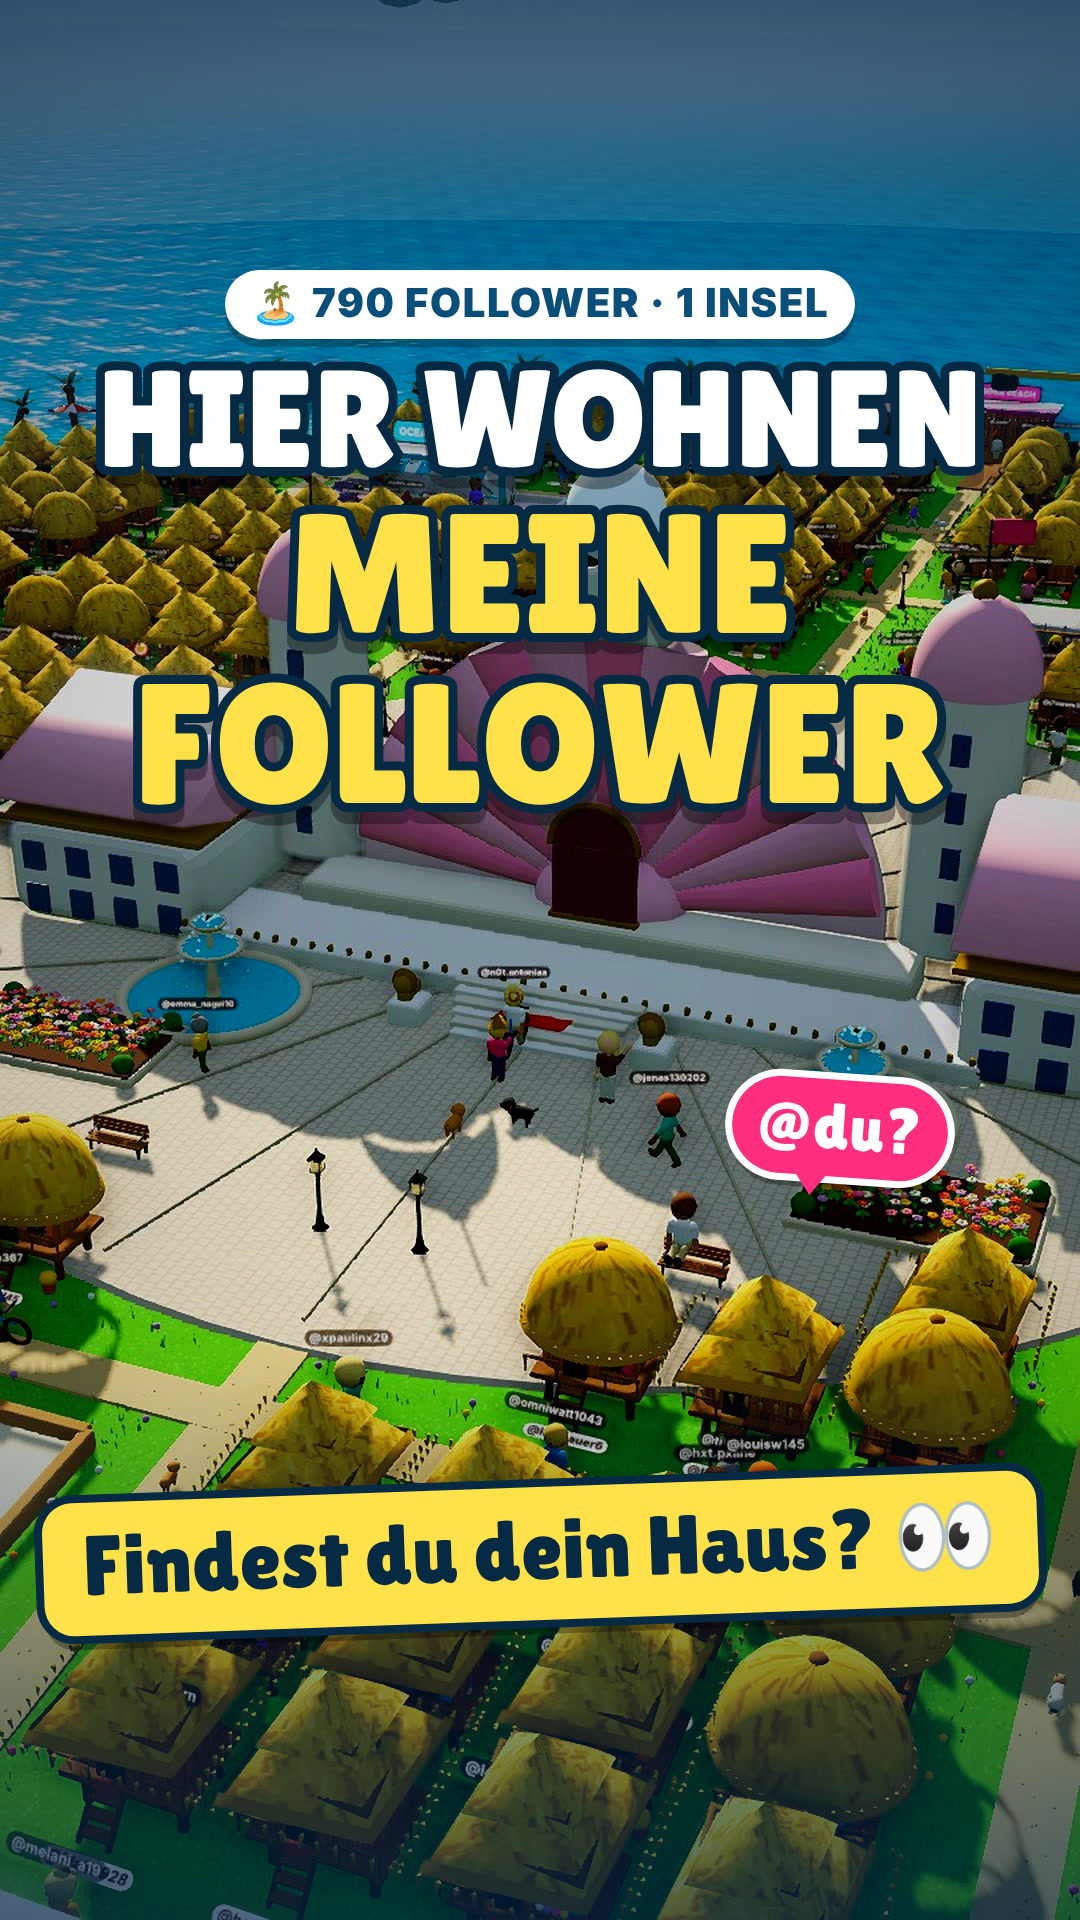
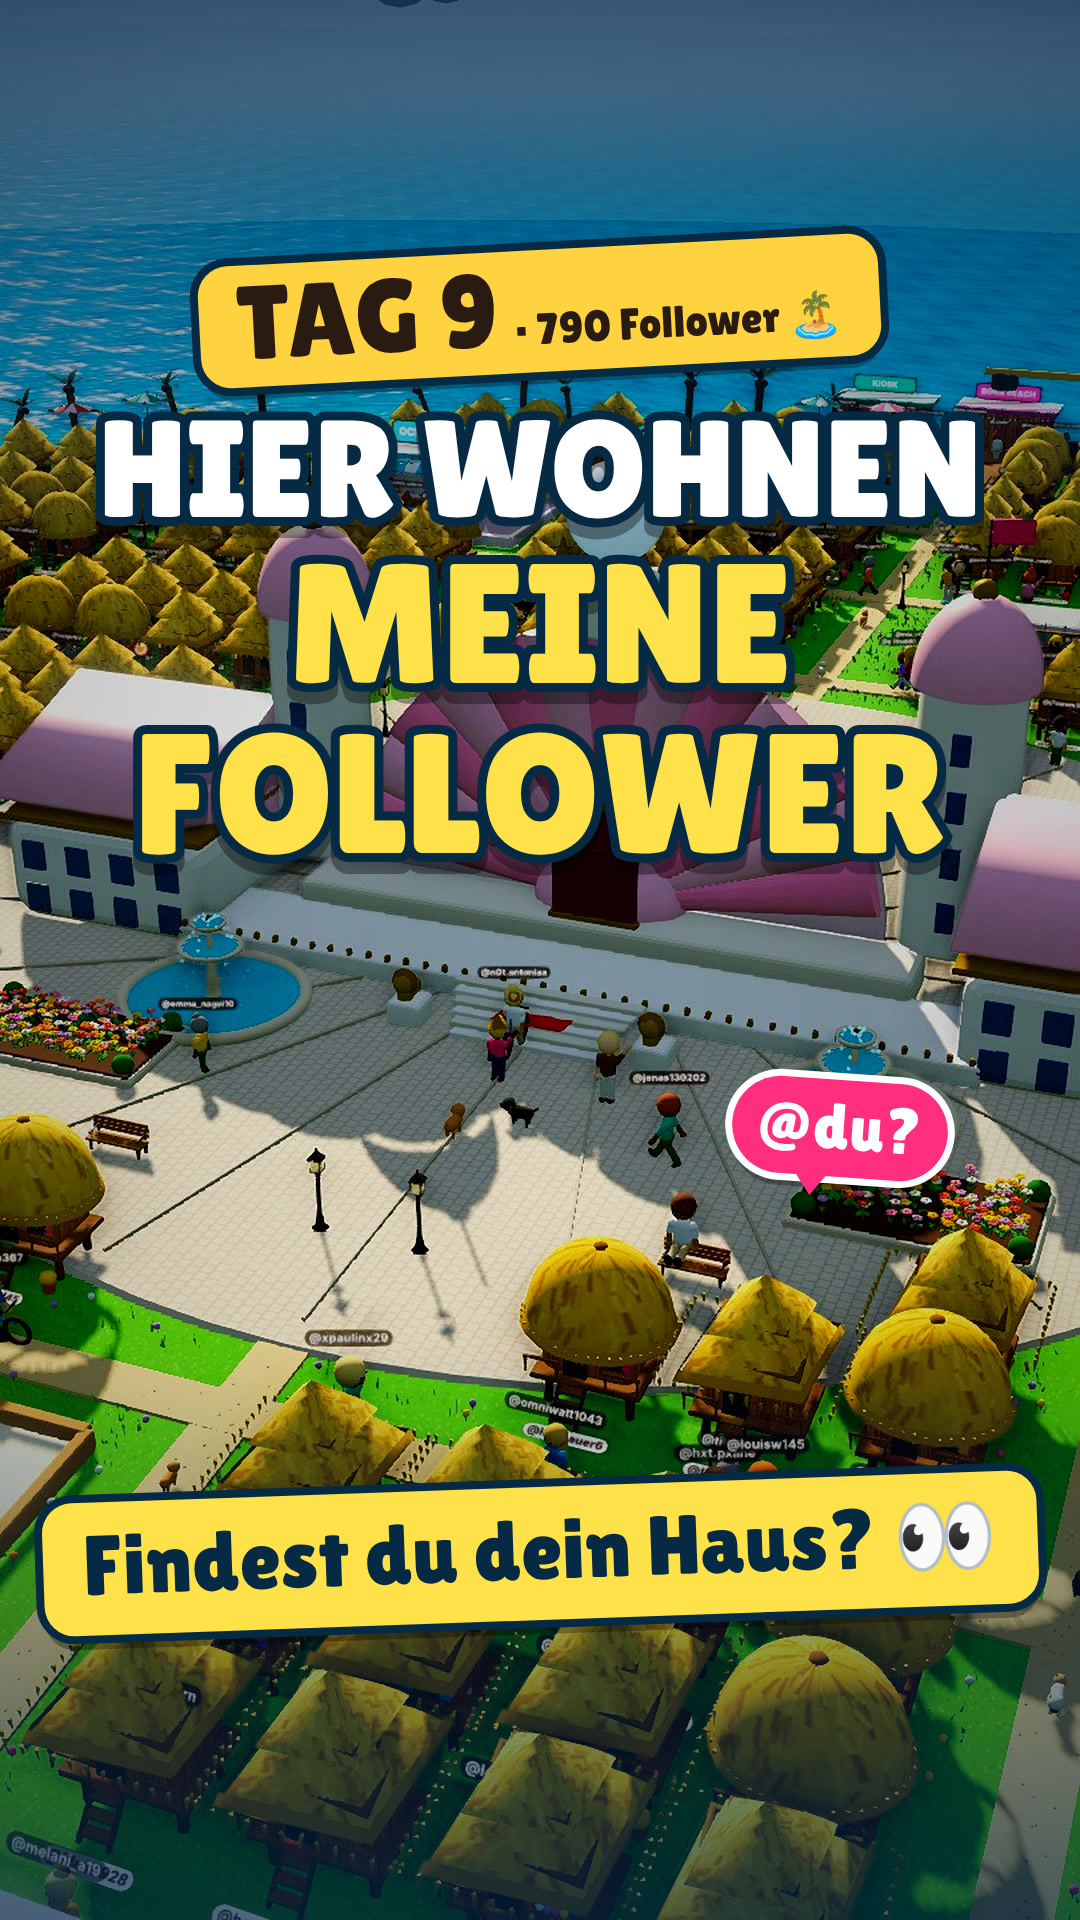
Cover: TAG 9
Claude-Session: https://claude.ai/code/session_01McNdgWwqfWZ56Gqk3h71JF

Changed region(s): [[0.0917, 0.0938, 0.9167, 0.4688]]

diff --git a/videos/muscheltal-3d-welt/cover/thumb.html b/videos/muscheltal-3d-welt/cover/thumb.html
@@ -5,14 +5,14 @@ body{width:1080px;height:1920px;overflow:hidden;position:relative;background:#0b
 #bg{position:absolute;inset:0;background:url(bg.jpg) center/cover;filter:saturate(1.25) contrast(1.05)}
 #dk{position:absolute;inset:0;background:linear-gradient(180deg,rgba(0,40,80,.7) 0%,rgba(0,40,80,0) 30%,rgba(0,40,80,0) 70%,rgba(0,40,80,.6) 100%)}
 .c{position:absolute;left:0;right:0;margin:0 auto;width:fit-content;text-align:center}
-#k{top:270px;padding:8px 26px 12px;border-radius:999px;background:#fff;color:#0a4f7a;font:900 40px Inter,sans-serif;letter-spacing:.04em;box-shadow:0 8px 0 rgba(0,0,0,.25)}
-#h{top:350px;font:400 138px/1 L;color:#fff;-webkit-text-stroke:18px #062a44;paint-order:stroke fill;filter:drop-shadow(0 12px 0 rgba(0,0,0,.35))}
+#k{top:250px;padding:6px 38px 12px;border-radius:30px;background:#ffd23f;color:#2a1b12;font:400 104px/1 L;transform:rotate(-3deg);box-shadow:0 0 0 8px #062a44,0 12px 0 rgba(0,0,0,.3)}#k small{font-size:44px;margin-left:16px}
+#h{top:400px;font:400 138px/1 L;color:#fff;-webkit-text-stroke:18px #062a44;paint-order:stroke fill;filter:drop-shadow(0 12px 0 rgba(0,0,0,.35))}
 #h b{font-weight:400;color:#ffe14a;font-size:170px}
 #p{left:600px;top:1080px;padding:10px 26px 14px;border-radius:999px;background:#ff2e7e;color:#fff;font:400 64px L;box-shadow:0 0 0 7px #fff,0 12px 0 rgba(0,0,0,.3);transform:rotate(4deg)}
 #p:after{content:"";position:absolute;left:60px;bottom:-42px;border:22px solid transparent;border-top:30px solid #ff2e7e}
 #q{bottom:300px;padding:14px 40px 20px;border-radius:30px;background:#ffe14a;color:#062a44;font:400 84px L;transform:rotate(-2deg);box-shadow:0 0 0 8px #062a44,0 14px 0 rgba(0,0,0,.3)}
 </style></head><body><div id="bg"></div><div id="dk"></div>
-<div class="c" id="k">🏝 790 FOLLOWER · 1 INSEL</div>
+<div class="c" id="k">TAG 9<small>· 790 Follower 🏝</small></div>
 <div class="c" id="h">HIER WOHNEN<br><b>MEINE FOLLOWER</b></div>
 <div class="c" id="p">@du?</div>
 <div class="c" id="q">Findest du dein Haus? 👀</div>

diff --git a/videos/muscheltal-3d-welt/BESCHREIBUNG.md b/videos/muscheltal-3d-welt/BESCHREIBUNG.md
@@ -1,6 +1,6 @@
 # Muschel-Tal – „Hier wohnen meine Follower“ (3D-Welt) · Beschreibung
 
-**Cover:** `renders/cover.jpg` (`cover/thumb.html`) – Kicker „🏝 790 FOLLOWER · 1 INSEL“, riesig „HIER WOHNEN MEINE FOLLOWER“, pinke Sprechblase „@du?“ über dem Platz voller Namen, unten gelb „Findest du dein Haus? 👀“. Hintergrund: der Muschel-Palast in 3D mit Figuren und Namen. Bewusst **ohne** roten Alarm-Rand, ohne „Tag X“ und ohne Job-Karten – anders als die letzten 8 Cover.
+**Cover:** `renders/cover.jpg` (`cover/thumb.html`) – gelbes Schild „TAG 9 · 790 Follower 🏝“, riesig „HIER WOHNEN MEINE FOLLOWER“, pinke Sprechblase „@du?“ über dem Platz voller Namen, unten gelb „Findest du dein Haus? 👀“. Hintergrund: der Muschel-Palast in 3D mit Figuren und Namen. Bewusst **ohne** roten Alarm-Rand, ohne Job-Karten – anders als die letzten 8 Cover.
 
 ## Hauptversion (zum Posten)
 Ich habe für meine Follower eine eigene Insel gebaut 🏝 Jede Hütte = ein Follower. Findest du deine? 👀
